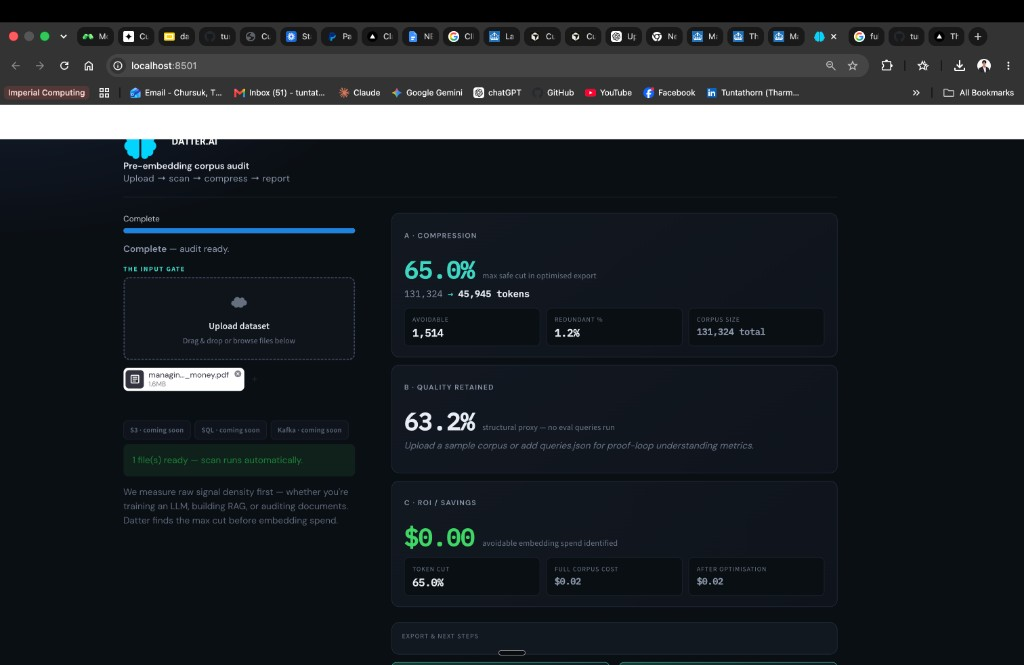
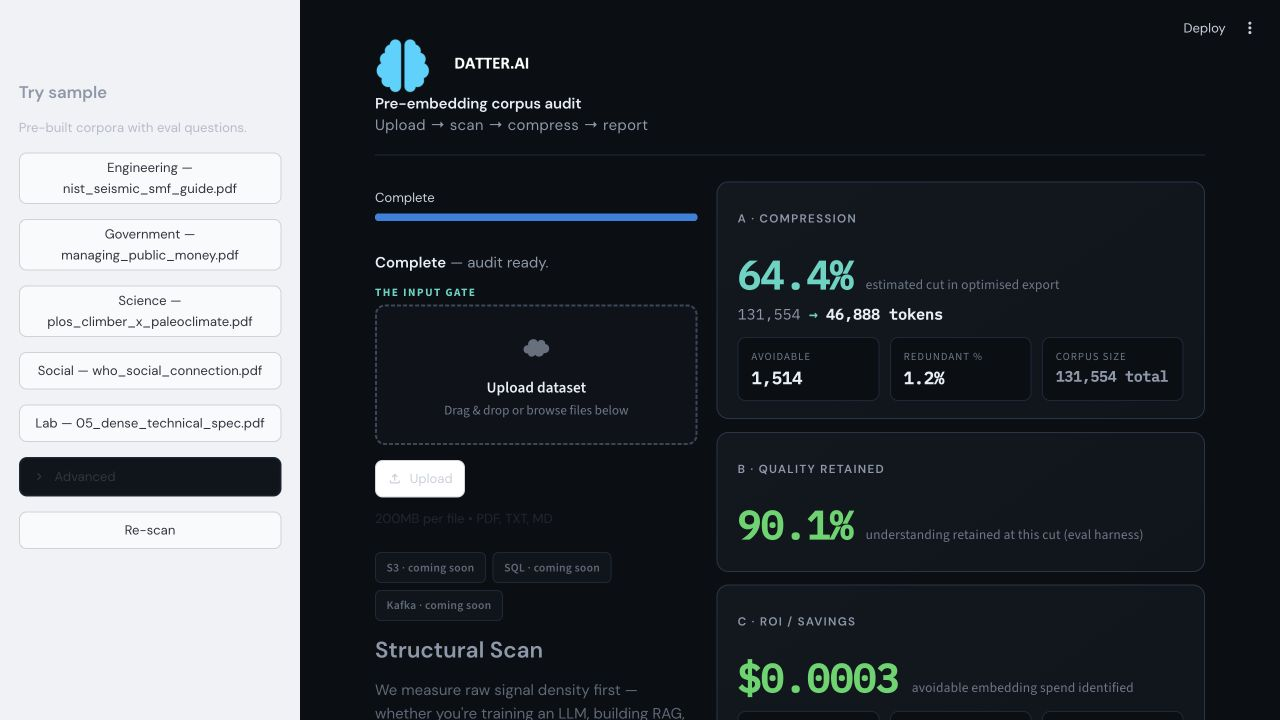
Polish public Datter presentation

diff --git a/app.py b/app.py
@@ -458,7 +458,7 @@ def render_compression_panel(report: AnalysisReport, compressed: float) -> None:
             <h3>A · Compression</h3>
             <div class="ig-hero">
                 <span class="ig-hero-val">{compressed:.1f}%</span>
-                <span class="ig-hero-sub">max safe cut in optimised export</span>
+                <span class="ig-hero-sub">estimated cut in optimised export</span>
             </div>
             <div class="ig-token-flow">
                 <span class="before">{before:,}</span>
@@ -516,12 +516,18 @@ def render_quality_panel(report: AnalysisReport) -> None:
 
 
 def render_savings_panel(report: AnalysisReport, compressed: float) -> None:
+    def format_usd(value: float) -> str:
+        return f"${value:,.4f}" if 0 < value < 0.01 else f"${value:,.2f}"
+
+    avoidable_cost = format_usd(report.avoidable_cost_usd)
+    total_cost = format_usd(report.total_cost_usd)
+    optimised_cost = format_usd(report.total_cost_usd - report.avoidable_cost_usd)
     st.markdown(
         f"""
         <div class="ig-panel">
             <h3>C · ROI / savings</h3>
             <div class="ig-hero">
-                <span class="ig-hero-val green">${report.avoidable_cost_usd:,.2f}</span>
+                <span class="ig-hero-val green">{avoidable_cost}</span>
                 <span class="ig-hero-sub">avoidable embedding spend identified</span>
             </div>
             <div class="ig-stat-row">
@@ -531,11 +537,11 @@ def render_savings_panel(report: AnalysisReport, compressed: float) -> None:
                 </div>
                 <div class="ig-stat">
                     <div class="k">Full corpus cost</div>
-                    <div class="v dim">${report.total_cost_usd:,.2f}</div>
+                    <div class="v dim">{total_cost}</div>
                 </div>
                 <div class="ig-stat">
                     <div class="k">After optimisation</div>
-                    <div class="v dim">${report.total_cost_usd - report.avoidable_cost_usd:,.2f}</div>
+                    <div class="v dim">{optimised_cost}</div>
                 </div>
             </div>
         </div>

diff --git a/README.md b/README.md
@@ -5,14 +5,14 @@
   <p><strong>The input gate before embedding spend.</strong></p>
 
   <p>
-    Upload a corpus → autonomous agents scan for redundancy → compress to the largest safe cut →
-    prove understanding is still above your quality floor — <em>before</em> you pay for embeddings, inference, or training.
+    Upload a corpus → audit redundancy → select a smaller corpus → test it against your quality floor —
+    <em>before</em> you pay for embeddings, inference, or training.
   </p>
 
   <p>
     <a href="https://github.com/tuntharm/Datter-AI"><img src="https://img.shields.io/badge/Python-3.10%2B-blue" alt="Python 3.10+" /></a>
     <a href="https://github.com/tuntharm/Datter-AI"><img src="https://img.shields.io/badge/Streamlit-local%20app-FF4B4B" alt="Streamlit" /></a>
-    <a href="https://github.com/tuntharm/Datter-AI"><img src="https://img.shields.io/badge/tests-30%20passed-brightgreen" alt="30 tests" /></a>
+    <a href="https://github.com/tuntharm/Datter-AI/actions/workflows/ci.yml"><img src="https://github.com/tuntharm/Datter-AI/actions/workflows/ci.yml/badge.svg" alt="CI" /></a>
     <a href="HACKATHON.md"><img src="https://img.shields.io/badge/hackathon-Cursor%20Hands%20Off%202026-8B5CF6" alt="Hackathon" /></a>
   </p>
 
@@ -26,7 +26,7 @@
   <img src="docs/assets/brain-icon.png" alt="Datter brain mark" width="96" />
 </p>
 
-**Datter.ai** finds the largest token cut you can make to your AI data while keeping downstream understanding above your quality floor.
+**Datter.ai** estimates how much of an AI corpus can be removed while keeping task-specific evaluation above a chosen quality floor.
 
 Most teams pay to embed, label, fine-tune, or train on everything. A large share is redundant, near-duplicate, or low-signal. Datter audits the corpus first, selects a minimum-sufficient subset under a token budget, and exports an optimised corpus with an audit trail — so you only spend on data that still answers the questions that matter.
 
@@ -40,28 +40,28 @@ Built for RAG teams, ML engineers, and document-heavy orgs who need **proof**, n
   <img src="docs/assets/dashboard-demo.png" alt="Datter.ai dashboard — compression, quality retained, and ROI panels" width="920" />
 </p>
 
-<p align="center"><em>Upload <code>managing_public_money.pdf</code> or pick a sample project — three outcome cards on one screen: compression, quality retained, and projected savings.</em></p>
+<p align="center"><em>The evaluated Government sample shows the export reduction, offline quality proxy, and projected cost from one reproducible run.</em></p>
 
 | Panel | What it shows |
 | --- | --- |
-| **A · Compression** | Max safe token cut and before/after token count |
+| **A · Compression** | Estimated token cut and before/after token count |
 | **B · Quality retained** | Q&A understanding at that cut (eval harness) or structural proxy when no queries are attached |
 | **C · ROI / savings** | Avoidable embedding spend identified from your cost assumptions |
 
-Tabs underneath cover **Proof** (per-question scores), **Export** (optimised `.zip`), **Executive** (business model), and **Audit** (agent log + chunk table).
+Tabs underneath cover **Proof** (per-question scores), **Export** (optimised `.zip`), **Executive** (business model), and **Audit** (pipeline log + chunk table).
 
 ---
 
 ## What it does
 
-- **Upload-first** — drag PDF, TXT, or MD files; agents scan automatically (no manual pipeline steps)
-- **7 autonomous agents** — Ingest → Chunk → Dedup → Score → Select → Eval → Report
+- **Upload-first** — drag PDF, TXT, or MD files; the pipeline scans automatically
+- **7 automated stages** — Ingest → Chunk → Dedup → Score → Select → Eval → Report
 - **Task-conditioned selection** — relevance boost from `queries.json` when you define downstream questions
 - **Proof loop** — offline TF-IDF retrieval + token-overlap judge (or LLM judge when API keys are set)
 - **Optimised export** — `.zip` of selected `.txt` chunks + `manifest.json`, plus Markdown/JSON audit reports
 - **Sample corpora** — Government, Social, Engineering, Science, and a fast Lab dataset for demos
 
-> **One-line pitch:** Datter finds the largest token cut you can make to your AI data while keeping downstream understanding above your quality floor — before you spend on embeddings, inference, or training.
+> **One-line pitch:** Datter estimates how much of an AI corpus can be removed while keeping task-specific evaluation above your quality floor — before you spend on embeddings, inference, or training.
 
 ---
 
@@ -85,11 +85,12 @@ On `managing_public_money.pdf` with Treasury compliance questions:
 
 | Metric | Value |
 | --- | --- |
-| Max safe cut @ 90% quality floor | **50%** |
-| Q&A understanding retained | **90.1%** |
-| Full corpus tokens → optimised | 131k → 46k |
+| Evaluation target | **50% token reduction** |
+| Q&A proxy retained | **90.1%** |
+| Quality floor | **90%** |
+| Judge | TF-IDF retrieval + token-overlap proxy |
 
-*Demo disclaimer: sample projects use an offline understanding proxy. Production claims require the full eval harness with representative client queries.*
+*Demo disclaimer: this is an illustrative offline proxy, not a production benchmark. Production claims require representative client queries and a validated evaluation harness.*
 
 ---
 
@@ -167,7 +168,7 @@ Datter-AI/
 ├── assets/brand/               # Brain icon + wordmark (also in docs/assets for README)
 ├── docs/assets/                # README screenshots and brand images
 ├── datter/
-│   ├── agent.py                # 7-agent streaming pipeline
+│   ├── agent.py                # Seven-stage streaming pipeline
 │   ├── project.py              # Sample projects + upload→sample matching
 │   ├── selection.py            # Token-budget cut + query relevance boost
 │   ├── export.py               # Optimised corpus zip export
@@ -177,7 +178,6 @@ Datter-AI/
 ├── demo_data/                  # Fast lab corpus
 ├── scripts/                    # Compression ladder, paper-summary team runners
 ├── tests/                      # 30 pytest tests
-├── brain/                      # Product strategy, experiments, orchestration notes
 ├── HACKATHON.md                # Demo script for judges / Loom
 └── AGENTS.md                   # Contributor routing for humans + agents
 ```
@@ -207,28 +207,26 @@ Baseline signals are informed by recent data-compression and selection literatur
 | [PreSelect 2025](https://proceedings.mlr.press/v267/shum25a.html) | Compression efficiency predicts downstream value |
 | [SoftDedup 2024](https://arxiv.org/abs/2407.06654) | Reweight vs hard-drop for near-duplicates |
 
-Deeper product and experiment notes live in [`brain/02_Product/Product Spine.md`](brain/02_Product/Product%20Spine.md).
-
 ---
 
 ## 60-second demo script
 
 1. *"AI teams pay to process everything — most of it is redundant."*
-2. Upload a PDF or click **Try sample → Government** — watch the agent log on the left.
-3. Point to **max safe cut**, **understanding retained**, and **avoidable embedding spend**.
+2. Upload a PDF or click **Try sample → Government** — watch the pipeline log on the left.
+3. Point to **estimated cut**, **quality retained**, and **avoidable embedding spend**.
 4. Open **Proof** — show per-question scores at the cut.
 5. Download the optimised corpus zip.
-6. *"Datter.ai — we know which data matters."*
+6. *"Datter.ai — test which data still matters before paying to process all of it."*
 
 Full judge script: [`HACKATHON.md`](HACKATHON.md).
 
 ---
 
-## Contributing
+## Feedback
 
-Issues and focused pull requests are welcome — especially around eval harness quality, selector improvements, and vertical demo corpora.
+Feedback and issues are welcome, especially around evaluation quality, selection methods, and representative demo corpora.
 
-Before changing product direction or brain notes, read [`AGENTS.md`](AGENTS.md) and start from [`brain/00_System/Datter Brain Manager.md`](brain/00_System/Datter%20Brain%20Manager.md).
+The repository is source-available but not currently open source. Please do not reuse or redistribute the code without permission.
 
 ---
 